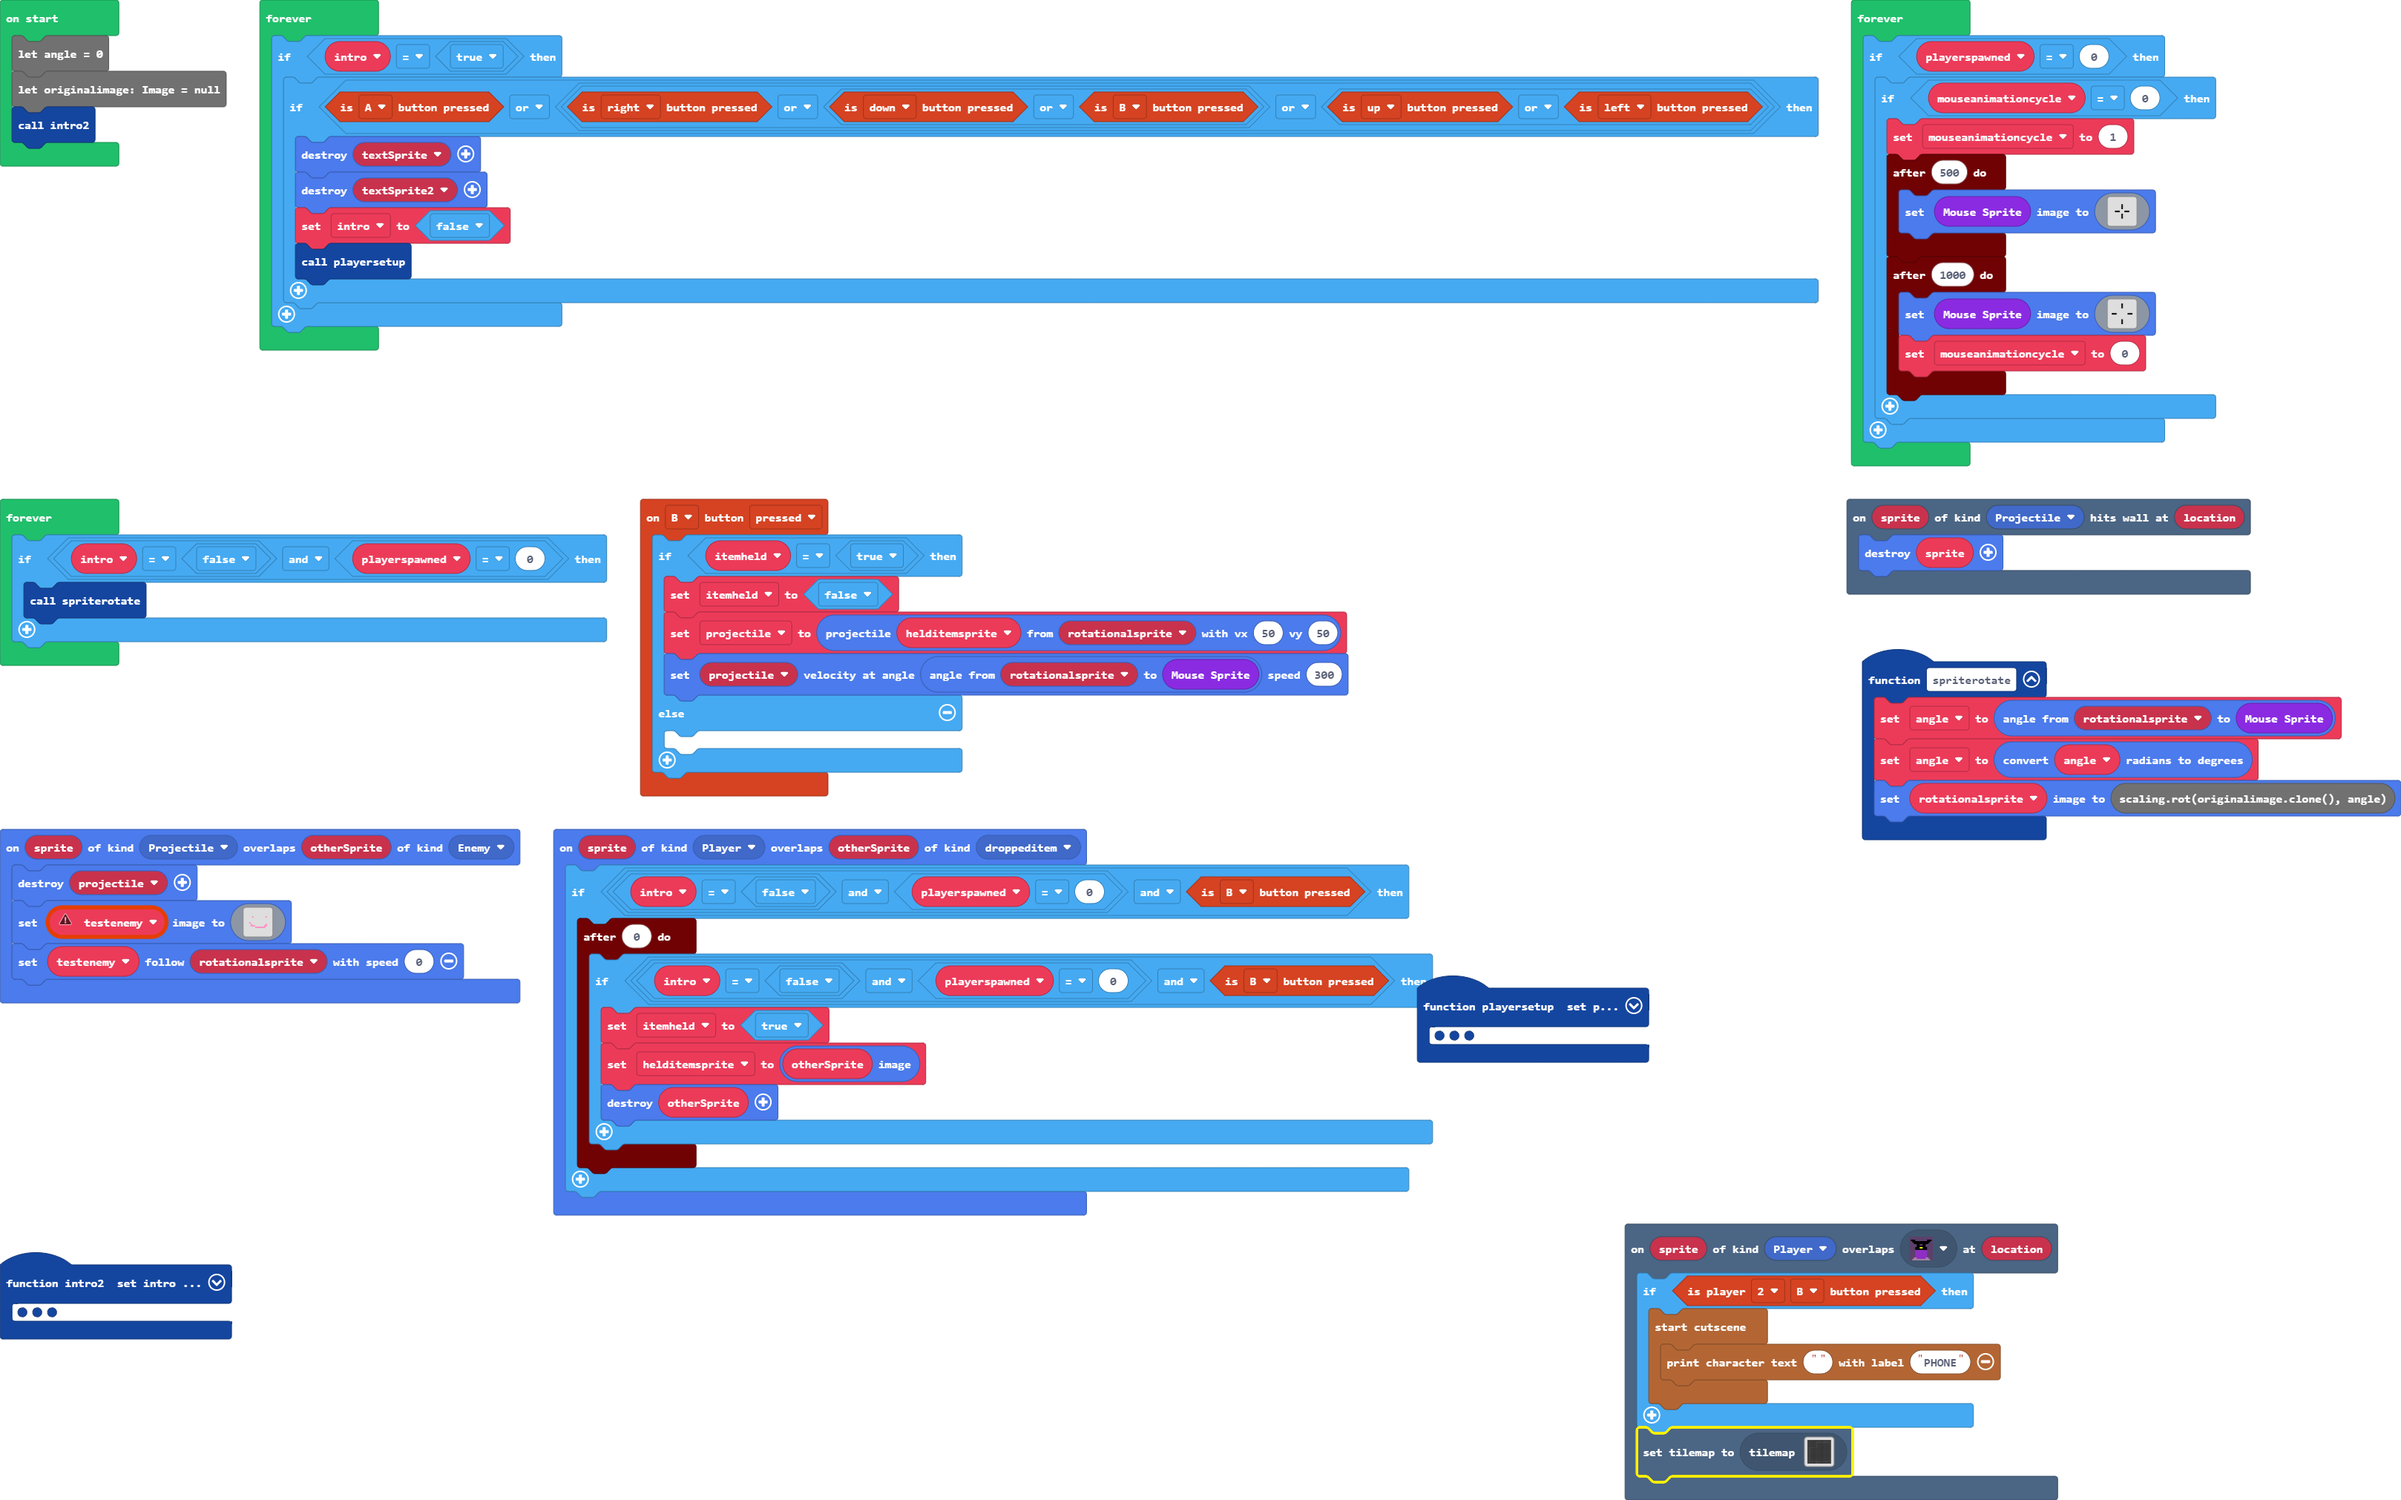
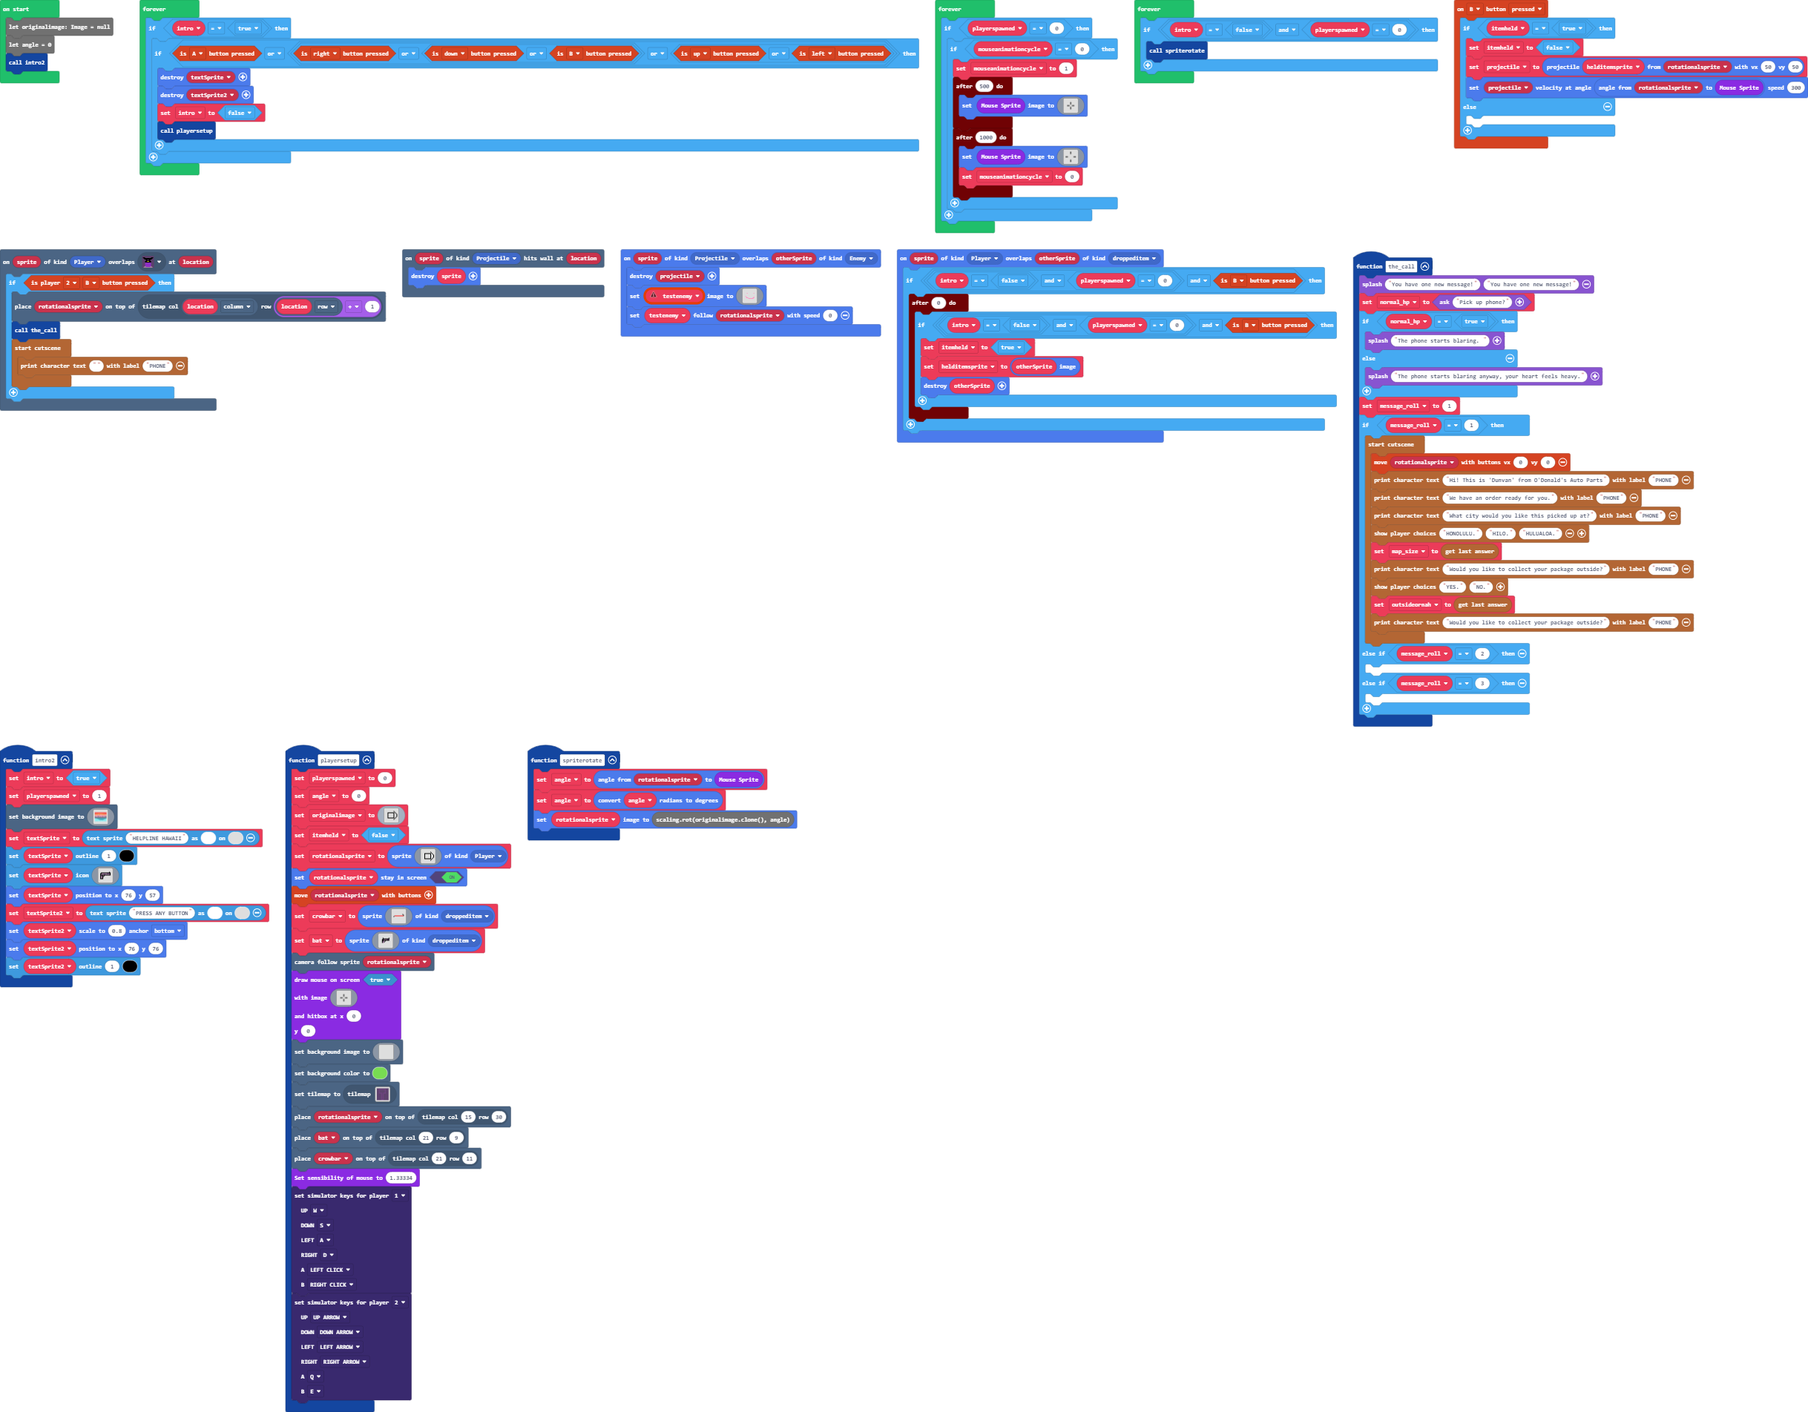
Update pxt.json, main.blocks, main.ts

diff --git a/main.ts b/main.ts
@@ -34,6 +34,34 @@ function spriterotate () {
     angle = spriteutils.radiansToDegrees(angle)
     rotationalsprite.setImage(scaling.rot(originalimage.clone(), angle))
 }
+function the_call () {
+    game.splash("You have one new message!", "You have one new message!")
+    normal_hp = game.ask("Pick up phone?")
+    if (normal_hp == true) {
+        game.splash("The phone starts blaring. ")
+    } else {
+        game.splash("The phone starts blaring anyway, your heart feels heavy.")
+    }
+    message_roll = 1
+    if (message_roll == 1) {
+        story.startCutscene(function () {
+            controller.moveSprite(rotationalsprite, 0, 0)
+            story.printCharacterText("Hi! This is 'Dunvan' from O'Donald's Auto Parts", "PHONE")
+            story.printCharacterText("We have an order ready for you.", "PHONE")
+            story.printCharacterText("What city would you like this picked up at?", "PHONE")
+            story.showPlayerChoices("HONOLULU.", "HILO.", "HULUALOA.")
+            map_size = story.getLastAnswer()
+            story.printCharacterText("Would you like to collect your package outside?", "PHONE")
+            story.showPlayerChoices("YES.", "NO.")
+            outsideornah = story.getLastAnswer()
+            story.printCharacterText("Would you like to collect your package outside?", "PHONE")
+        })
+    } else if (message_roll == 2) {
+    	
+    } else if (message_roll == 3) {
+    	
+    }
+}
 scene.onHitWall(SpriteKind.Projectile, function (sprite, location) {
     sprites.destroy(sprite)
 })
@@ -104,14 +132,18 @@ let bat: Sprite = null
 let crowbar: Sprite = null
 let textSprite2: TextSprite = null
 let textSprite: TextSprite = null
-let rotationalsprite: Sprite = null
+let outsideornah = ""
+let map_size = ""
+let message_roll = 0
+let normal_hp = false
 let projectile: Sprite = null
 let helditemsprite: Image = null
 let itemheld = false
 let playerspawned = 0
 let intro = false
-let angle = 0
+let rotationalsprite: Sprite = null
 let originalimage: Image = null
+let angle = 0
 intro2()
 forever(function () {
     if (intro == true) {
